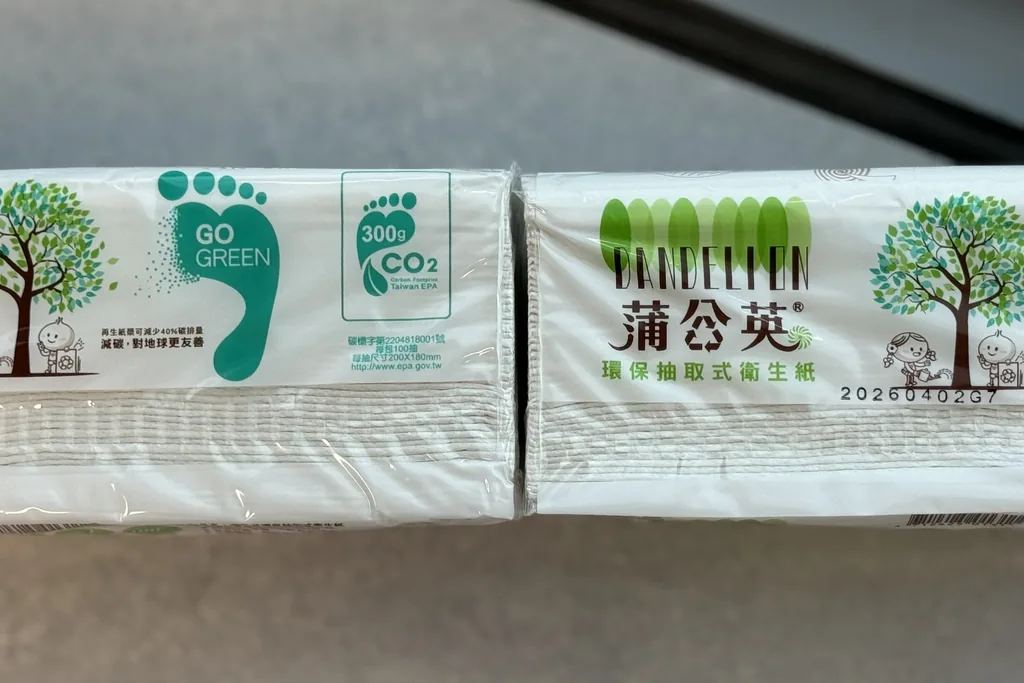
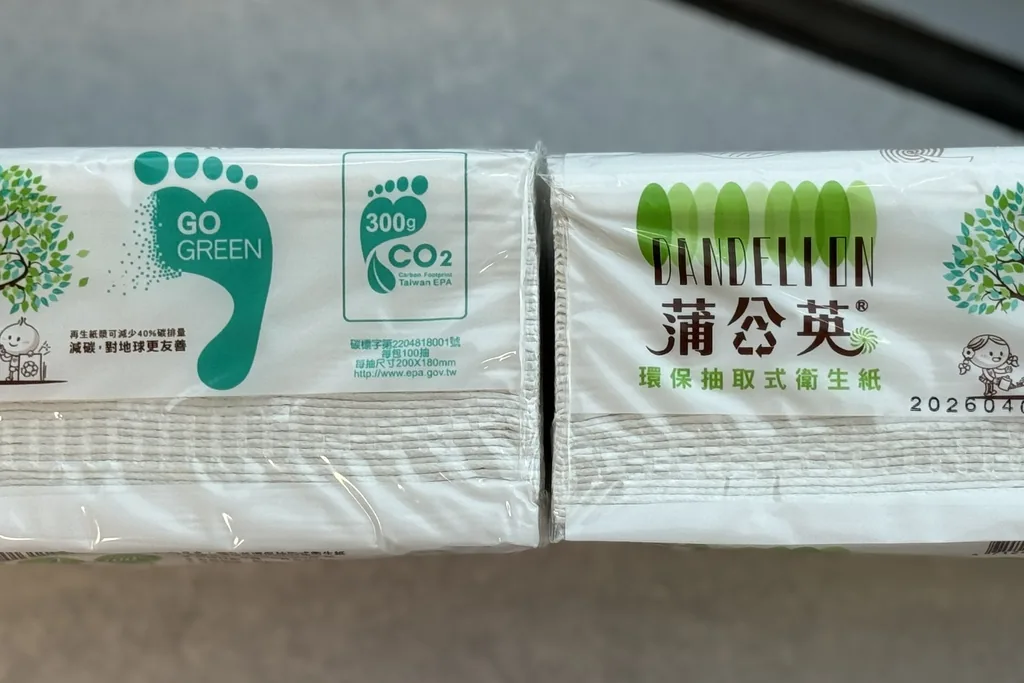
綠點輪播第 2 張依 Figma 母版新取景重新匯出
Claude-Session: https://claude.ai/code/session_01DNVcy9hAWfEoBXu333tfb9

diff --git a/site/index.html b/site/index.html
@@ -60,7 +60,7 @@
   if (d.classList.contains('is-static') || !el) { if (el) el.remove(); boot(); return; }
   d.classList.add('is-loading');
 
-  var LIST = [["assets/01-hero/logo-mark.svg?v=b183668f",4858],["assets/01-hero/logo-zh.svg?v=8d346f0f",5519],["assets/01-hero/logo-en.svg?v=60e7896b",8959],["assets/common/icon-arrow-w-20.svg?v=a434881c",705],["assets/common/icon-arrow-dark.svg?v=ef3e488f",705],["assets/01-hero/cover-4.webp?v=cbeb0ba1",580948],["assets/01-hero/cover-3.webp?v=8b7ac2f9",131604],["assets/01-hero/cover-2.webp?v=2b4a7948",444268],["assets/01-hero/cover-1.webp?v=1ca78f26",63926],["assets/01-hero/icon-safe.svg?v=f5c482a6",1689],["assets/01-hero/icon-leaf.svg?v=a3b2b098",1502],["assets/01-hero/icon-recycle.svg?v=cdbc3b23",4489],["assets/common/icon-arrow-w.svg?v=59f46b29",703],["assets/01-hero/icon-info.svg?v=674dfdb8",2192],["assets/01-hero/tooltip-arrow.svg?v=447f4627",350],["assets/02-about/card2-ellipse-a.svg?v=ba683ba5",425],["assets/02-about/card2-ellipse-b.webp?v=a199b924",1980],["assets/02-about/card2-dot.svg?v=72e9770f",453],["assets/02-about/card3-ellipse-outer.svg?v=b56266ff",693],["assets/02-about/card3-ellipse-inner.webp?v=166f4230",1430],["assets/02-about/card3-dot.svg?v=4a92476e",852],["assets/02-about/value-cycle-s-band.svg?v=9bc24605",3054],["assets/02-about/value-cycle-l-band.svg?v=dad0d414",3024],["assets/02-about/infinity-breathe.json?v=78099a33",61823],["assets/02-about/value-cycle-s-nodes.svg?v=6b7dabd6",244089],["assets/03-paper/arrow.svg?v=bd736476",705],["assets/03-paper/step1-pulper.webp?v=898fddc0",57636],["assets/03-paper/step2-workers.webp?v=18351ed7",52372],["assets/03-paper/step3-tissue.webp?v=6018bc2c",65926],["assets/03-paper/ecolabel-1.svg?v=a0c69803",3407],["assets/03-paper/ecolabel-2.svg?v=e5224c42",23883],["assets/03-paper/ecolabel-fsc.svg?v=fd5a7d01",24928],["assets/04-process/card1-typing.webp?v=0433508a",27372],["assets/04-process/icon-files.svg?v=92c13e3c",2045],["assets/04-process/card2-truck.webp?v=d0743a65",85466],["assets/04-process/icon-truck.svg?v=7d4e6f0b",2867],["assets/04-process/card3-pulper.webp?v=908b6834",92726],["assets/04-process/icon-drop.svg?v=891a87cc",1611],["assets/04-process/card4-laptop.webp?v=f0ed0319",65938],["assets/04-process/card4-screen.webp?v=4523cf3f",32332],["assets/04-process/icon-recycle.svg?v=5d97afe7",2217],["assets/04-process/icon-info.svg?v=c065a1df",2194],["assets/04-process/booking-mockup2.webp?v=409ea280",542670],["assets/04-process/prepare-1.webp?v=bd6705ba",65766],["assets/04-process/prepare-2.webp?v=c5dd358f",51946],["assets/04-process/prepare-3.webp?v=a8ebbab0",68646],["assets/04-process/route-home@2x.webp?v=b1c56fc9",53214],["assets/04-process/route-industrial@2x.webp?v=e5549499",52052],["assets/05-green/m-arrow-next.svg?v=bd736476",705],["assets/05-green/greenpts-coins.webp?v=fbf73649",43216],["assets/05-green/paper-dandelion.webp?v=f2f0f0f6",59576],["assets/05-green/m-icon-cart.svg?v=b4d04a8a",1651],["assets/05-green/icon-cart.svg?v=70034d6f",1837],["assets/05-green/m-icon-hand-heart.svg?v=b0851ac8",2975],["assets/05-green/icon-hand-heart.svg?v=02694811",3159],["assets/05-green/certificate-pdf@3x.webp?v=3c957f13",69942],["assets/05-green/m-icon-badge-check.svg?v=95dab9fd",3534],["assets/05-green/icon-badge-check.svg?v=bb8b13ae",3797],["assets/05-green/esg-hand.webp?v=71b1f3e5",26122],["assets/05-green/certificate-full@2x.webp?v=0bf1eb20",233280],["assets/06-strip/photo-forklift.webp?v=fc1b3409",59522],["assets/06-strip/photo-windmill.webp?v=a3225c6b",20270],["assets/06-strip/photo-seedling.webp?v=32d9afdc",43038],["assets/06-strip/photo-lab.webp?v=bd52192d",72892],["assets/06-strip/photo-pulp-stack.webp?v=81e3b8c0",34264],["assets/06-strip/photo-paper-roll.webp?v=be0c18fa",26138],["assets/07-faq/icon-minus-24.svg?v=a8a4a195",289],["assets/07-faq/icon-minus-32.svg?v=63282dd2",302],["assets/07-faq/icon-add-24.svg?v=9729f4af",309],["assets/07-faq/icon-add-32.svg?v=d2c37445",309],["assets/08-cta/bg-composite.webp?v=e24e1c79",52248],["assets/09-footer/logo-mark.svg?v=d8a5953a",4865],["assets/09-footer/logo-zh.svg?v=16f81574",5534],["assets/09-footer/logo-en.svg?v=a9707496",8800],["assets/09-footer/line-top.svg?v=216b68ae",248],["assets/04-process/card4-screen-mask.svg?v=c138c612",765]];
+  var LIST = [["assets/01-hero/logo-mark.svg?v=b183668f",4858],["assets/01-hero/logo-zh.svg?v=8d346f0f",5519],["assets/01-hero/logo-en.svg?v=60e7896b",8959],["assets/common/icon-arrow-w-20.svg?v=a434881c",705],["assets/common/icon-arrow-dark.svg?v=ef3e488f",705],["assets/01-hero/cover-4.webp?v=cbeb0ba1",580948],["assets/01-hero/cover-3.webp?v=8b7ac2f9",131604],["assets/01-hero/cover-2.webp?v=2b4a7948",444268],["assets/01-hero/cover-1.webp?v=1ca78f26",63926],["assets/01-hero/icon-safe.svg?v=f5c482a6",1689],["assets/01-hero/icon-leaf.svg?v=a3b2b098",1502],["assets/01-hero/icon-recycle.svg?v=cdbc3b23",4489],["assets/common/icon-arrow-w.svg?v=59f46b29",703],["assets/01-hero/icon-info.svg?v=674dfdb8",2192],["assets/01-hero/tooltip-arrow.svg?v=447f4627",350],["assets/02-about/card2-ellipse-a.svg?v=ba683ba5",425],["assets/02-about/card2-ellipse-b.webp?v=a199b924",1980],["assets/02-about/card2-dot.svg?v=72e9770f",453],["assets/02-about/card3-ellipse-outer.svg?v=b56266ff",693],["assets/02-about/card3-ellipse-inner.webp?v=166f4230",1430],["assets/02-about/card3-dot.svg?v=4a92476e",852],["assets/02-about/value-cycle-s-band.svg?v=9bc24605",3054],["assets/02-about/value-cycle-l-band.svg?v=dad0d414",3024],["assets/02-about/infinity-breathe.json?v=78099a33",61823],["assets/02-about/value-cycle-s-nodes.svg?v=6b7dabd6",244089],["assets/03-paper/arrow.svg?v=bd736476",705],["assets/03-paper/step1-pulper.webp?v=898fddc0",57636],["assets/03-paper/step2-workers.webp?v=18351ed7",52372],["assets/03-paper/step3-tissue.webp?v=6018bc2c",65926],["assets/03-paper/ecolabel-1.svg?v=a0c69803",3407],["assets/03-paper/ecolabel-2.svg?v=e5224c42",23883],["assets/03-paper/ecolabel-fsc.svg?v=fd5a7d01",24928],["assets/04-process/card1-typing.webp?v=0433508a",27372],["assets/04-process/icon-files.svg?v=92c13e3c",2045],["assets/04-process/card2-truck.webp?v=d0743a65",85466],["assets/04-process/icon-truck.svg?v=7d4e6f0b",2867],["assets/04-process/card3-pulper.webp?v=908b6834",92726],["assets/04-process/icon-drop.svg?v=891a87cc",1611],["assets/04-process/card4-laptop.webp?v=f0ed0319",65938],["assets/04-process/card4-screen.webp?v=4523cf3f",32332],["assets/04-process/icon-recycle.svg?v=5d97afe7",2217],["assets/04-process/icon-info.svg?v=c065a1df",2194],["assets/04-process/booking-mockup2.webp?v=409ea280",542670],["assets/04-process/prepare-1.webp?v=bd6705ba",65766],["assets/04-process/prepare-2.webp?v=c5dd358f",51946],["assets/04-process/prepare-3.webp?v=a8ebbab0",68646],["assets/04-process/route-home@2x.webp?v=b1c56fc9",53214],["assets/04-process/route-industrial@2x.webp?v=e5549499",52052],["assets/05-green/m-arrow-next.svg?v=bd736476",705],["assets/05-green/greenpts-coins.webp?v=fbf73649",43216],["assets/05-green/paper-dandelion.webp?v=ed85ab89",58100],["assets/05-green/m-icon-cart.svg?v=b4d04a8a",1651],["assets/05-green/icon-cart.svg?v=70034d6f",1837],["assets/05-green/m-icon-hand-heart.svg?v=b0851ac8",2975],["assets/05-green/icon-hand-heart.svg?v=02694811",3159],["assets/05-green/certificate-pdf@3x.webp?v=3c957f13",69942],["assets/05-green/m-icon-badge-check.svg?v=95dab9fd",3534],["assets/05-green/icon-badge-check.svg?v=bb8b13ae",3797],["assets/05-green/esg-hand.webp?v=71b1f3e5",26122],["assets/05-green/certificate-full@2x.webp?v=0bf1eb20",233280],["assets/06-strip/photo-forklift.webp?v=fc1b3409",59522],["assets/06-strip/photo-windmill.webp?v=a3225c6b",20270],["assets/06-strip/photo-seedling.webp?v=32d9afdc",43038],["assets/06-strip/photo-lab.webp?v=bd52192d",72892],["assets/06-strip/photo-pulp-stack.webp?v=81e3b8c0",34264],["assets/06-strip/photo-paper-roll.webp?v=be0c18fa",26138],["assets/07-faq/icon-minus-24.svg?v=a8a4a195",289],["assets/07-faq/icon-minus-32.svg?v=63282dd2",302],["assets/07-faq/icon-add-24.svg?v=9729f4af",309],["assets/07-faq/icon-add-32.svg?v=d2c37445",309],["assets/08-cta/bg-composite.webp?v=e24e1c79",52248],["assets/09-footer/logo-mark.svg?v=d8a5953a",4865],["assets/09-footer/logo-zh.svg?v=16f81574",5534],["assets/09-footer/logo-en.svg?v=a9707496",8800],["assets/09-footer/line-top.svg?v=216b68ae",248],["assets/04-process/card4-screen-mask.svg?v=c138c612",765]];
   var MIN = 600, MAX = 15000, CONC = 6, t0 = performance.now();
   var total = 0, got = {}, done = 0, finished = false;
   LIST.forEach(function (it) { total += it[1]; });
@@ -779,7 +779,7 @@
             <span class="cl-green__patch cl-green__patch--top"></span>
           </span>
           <span class="cl-green__slide cl-green__slide--paper" data-figma="2139:29982" data-figma-s="2139:30070">
-            <img class="cl-green__paper" src="assets/05-green/paper-dandelion.webp?v=f2f0f0f6" alt="" loading="lazy">
+            <img class="cl-green__paper" src="assets/05-green/paper-dandelion.webp?v=ed85ab89" alt="" loading="lazy">
           </span>
           <span class="cl-info-card cl-info-card--accent cl-green__info" data-figma="I2139:30034;2139:29991" data-figma-s="I2139:30381;2139:30055">
             <span class="cl-green__info-head"><span class="cl-green__info-dot"></span><span class="cl-green__info-title">水銷綠點換算說明</span></span>
